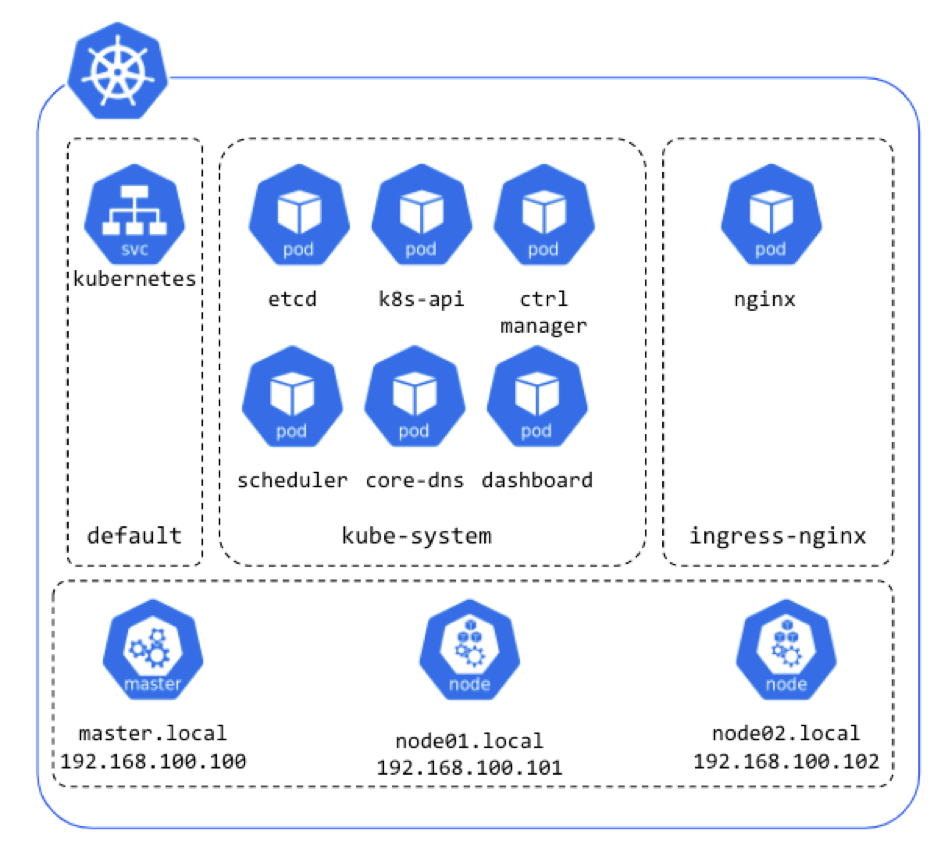
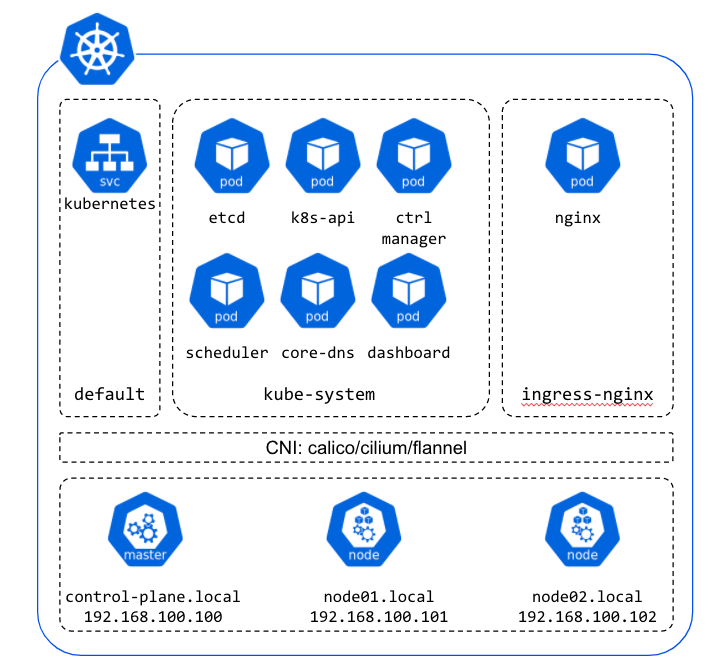
rename master to control-plane

diff --git a/docs/prerequisites.md b/docs/prerequisites.md
@@ -1,46 +1,60 @@
 # Prerequisites
 
-You need a physical machine with a at least i5 CPU and 8GB RAM. Lower resources might work but it is not guaranteed.
-The Operating system could be Windows/MacOS/Linux.
+You need a physical machine with a at least i5 CPU and 8GB RAM. Lower resources
+might work but it is not guaranteed. The Operating system could be
+Windows/MacOS/Linux.
 
-a) Download and install (with default settings) the following software (64bit version):
+a) Download and install (with default settings) the following software (64bit
+version):
 
 MacOS:
 
 - [VirtualBox 6.1.6](https://download.virtualbox.org/virtualbox/6.1.6)
-- [Oracle VM VirtualBox Extension Pack 6.1.6](https://download.virtualbox.org/virtualbox/6.1.6/Oracle_VM_VirtualBox_Extension_Pack-6.1.6.vbox-extpack)
+- [Oracle VM VirtualBox Extension Pack
+  6.1.6](https://download.virtualbox.org/virtualbox/6.1.6/Oracle_VM_VirtualBox_Extension_Pack-6.1.6.vbox-extpack)
 - [vagrant v2.2.7](https://releases.hashicorp.com/vagrant/2.2.7/)
 - [git](https://git-scm.com/book/en/v2/Getting-Started-Installing-Git)
-- [VSCode](https://code.visualstudio.com/download), vim or any text editor you like. 
+- [VSCode](https://code.visualstudio.com/download), vim or any text editor you
+  like.
 
 Windows:
 
 - [VirtualBox 6.1.6](https://download.virtualbox.org/virtualbox/6.1.6)
-- [Oracle VM VirtualBox Extension Pack 6.1.6](https://download.virtualbox.org/virtualbox/6.1.6/Oracle_VM_VirtualBox_Extension_Pack-6.1.6.vbox-extpack)
+- [Oracle VM VirtualBox Extension Pack
+  6.1.6](https://download.virtualbox.org/virtualbox/6.1.6/Oracle_VM_VirtualBox_Extension_Pack-6.1.6.vbox-extpack)
 - [vagrant v2.2.7](https://releases.hashicorp.com/vagrant/2.2.7/)
-- [git bash v2.23.0](https://github.com/git-for-windows/git/releases/download/v2.23.0.windows.1/Git-2.23.0-64-bit.exe)
-- [VSCode](https://code.visualstudio.com/download), [notepad++](https://notepad-plus-plus.org/download) or any text editor you like.
+- [git bash
+  v2.23.0](https://github.com/git-for-windows/git/releases/download/v2.23.0.windows.1/Git-2.23.0-64-bit.exe)
+- [VSCode](https://code.visualstudio.com/download),
+  [notepad++](https://notepad-plus-plus.org/download) or any text editor you
+  like.
 
-Windows only: In case that HyperV is active, you have to deactivate it in order to use this setup. More info [here](https://support.microsoft.com/en-us/help/3204980/virtualization-applications-do-not-work-together-with-hyper-v-device-g)
+Windows only: In case that HyperV is active, you have to deactivate it in order
+to use this setup. More info
+[here](https://support.microsoft.com/en-us/help/3204980/virtualization-applications-do-not-work-together-with-hyper-v-device-g)
 
 Linux:
 
 - [VirtualBox 6.1.6](https://download.virtualbox.org/virtualbox/6.1.6)
-- [Oracle VM VirtualBox Extension Pack 6.1.6](https://download.virtualbox.org/virtualbox/6.1.6/Oracle_VM_VirtualBox_Extension_Pack-6.1.6.vbox-extpack)
+- [Oracle VM VirtualBox Extension Pack
+  6.1.6](https://download.virtualbox.org/virtualbox/6.1.6/Oracle_VM_VirtualBox_Extension_Pack-6.1.6.vbox-extpack)
 - [vagrant v2.2.7](https://releases.hashicorp.com/vagrant/2.2.7/)
 - [git](https://git-scm.com/book/en/v2/Getting-Started-Installing-Git)
-- [VSCode](https://code.visualstudio.com/download), vim or any text editor you like.
+- [VSCode](https://code.visualstudio.com/download), vim or any text editor you
+  like.
 
-b) Create a folder with the name `labs` where you have ~30GB free space on disk. Change the current directory to `labs` folder.
+b) Create a folder with the name `labs` where you have ~30GB free space on disk.
+Change the current directory to `labs` folder.
 
 - For Mac/Linux: `cd $HOME/Desktop/labs`
-- For Windows run `git-bash` and go to `labs` folder. Ex. `cd /c/Users/<user name>/Desktop/labs`
+- For Windows run `git-bash` and go to `labs` folder. Ex. `cd /c/Users/<user
+  name>/Desktop/labs`
 
-c) On your phisical machine add the following entries in the hosts file:
+c) On your physical machine add the following entries in the hosts file:
 
 ```bash
-192.168.100.100 master.local cluster.local nfsstorage.local k8s.local
-192.168.100.100 myapp.local phippy.local prometheus.local
+192.168.234.100 control-plane.local cluster.local nfsstorage.local k8s.local
+192.168.234.100 myapp.local phippy.local prometheus.local
 ```
 
 - For Linux/Mac: modify the `/etc/hosts` file from command line:
@@ -49,27 +63,28 @@ c) On your phisical machine add the following entries in the hosts file:
 sudo vim /etc/hosts
 
 # copy and paste these lines here:
-192.168.100.100 master.local cluster.local nfsstorage.local k8s.local
-192.168.100.100 myapp.local phippy.local prometheus.local
+192.168.234.100 control-plane.local cluster.local nfsstorage.local k8s.local
+192.168.234.100 myapp.local phippy.local prometheus.local
 ```
 
-- For Windows, go to kubeadm-vagrant/src/windows/ and run as Administrator (Run As Administrator) the `configure_fqdns.bat` script.
+- For Windows, go to kubeadm-vagrant/src/windows/ and run as Administrator (Run
+  As Administrator) the `configure_fqdn.bat` script.
 
 To verify this, go to command line and do:
 
 ```bash
-ping master.local
-PING master.local (192.168.100.100): 56 data bytes
+ping control-plane.local
+PING control-plane.local (192.168.234.100): 56 data bytes
 Request timeout for icmp_seq 0
 ```
 
-If you see `master.local (192.168.100.100)`, then this setup is Ok.
+If you see `control-plane.local (192.168.234.100)`, then this setup is Ok.
 
 d) Deactivate `autocrlf` for git.
 
 - `git config --global core.autocrlf false`
 
-e) Clone the following git repos in `labs` folder:
+e) Clone the following git repositories in `labs` folder:
 
 ```bash
 git clone https://github.com/hlesey/kubeadm-vagrant.git
@@ -78,4 +93,6 @@ git clone https://github.com/hlesey/k8s-labs.git
 git clone https://github.com/hlesey/phippy.git
 ```
 
-f) Download vagrant templates necessary to initialize the K8s cluster. Execute the script from `kubeadm-vagrant/src/download_boxes.sh`. This might take a while.
+f) Download vagrant templates necessary to initialize the K8s cluster. Execute
+the script from `kubeadm-vagrant/src/download_boxes.sh`. This might take a
+while.

diff --git a/docs/cluster_setup.md b/docs/cluster_setup.md
@@ -3,20 +3,29 @@
 
 ## Bring the cluster up
 
-a) For Mac/Linux - open the terminal and go to `labs/kubeadm-vagrant`.
-   For Windows - open Git-bash and go to the `labs/kubeadm-vagrant` folder (Ex. `cd /c/Users/<user name>/Desktop/labs/kubeadm-vagrant`).
+a) For Mac/Linux - open the terminal and go to `labs/kubeadm-vagrant`. For
+   Windows - open Git-bash and go to the `labs/kubeadm-vagrant` folder (Ex. `cd
+   /c/Users/<user name>/Desktop/labs/kubeadm-vagrant`).
 
 b) Power on the VMs:
 
-- master node: `vagrant up master`. Afer the VM finish the initialization, the output sould end with the message: `“Enjoi.”`.
+- control-plane node: `vagrant up control-plane`. After the VM finish the
+  initialization, the output should end with the message: `“Enjoy”`.
 - worker nodes: `vagrant up node01` and `vagrant up node02`
 
-c) In order to test the cluster, from your local machine open the browser and go to: [https://k8s.local:30443](https://k8s.local:30443). You should see the K8s Dashboard:
+c) In order to test the cluster, from your local machine open the browser and go
+to: [https://k8s.local:30443](https://k8s.local:30443). You should see the K8s
+Dashboard:
 
-![K8s Dashboard login](./images/k8s_dashboard_login.png)
+<img alt="K8s Dashboard login" src="../docs/images/k8s_dashboard_login.png" width="600px" />
 
-d) To authenticate to this dashboard, use the token from this file: `kubeadm-vagrant/src/output/cluster_admin_token.txt`.
+Note: If you are using Google Chrome, you might hit `NET::ERR_CERT_INVALID`.
+Because we know this is our app, we should trust it. To bypass Google Chrome
+error, type `thisisunsafe` and hit enter.
 
-![K8s Dashboard](./images/k8s_dashboard.png)
+d) To authenticate to this dashboard, use the token from this file:
+`kubeadm-vagrant/src/output/cluster_admin_token.txt`.
 
-Enjoi;
+<img alt="K8s Dashboard" src="../docs/images/k8s_dashboard.png" width="800px" />
+
+Enjoy;

diff --git a/src/template/Readme.md b/src/template/Readme.md
@@ -1,5 +1,8 @@
-In order to build a new template you need a vagrant cloud token that can be aquired from `https://app.vagrantup.com/settings/security`
-Make sure you have `packer` and `vagrant` installed (for macos `brew install packer vagrant`)
+# Generate template box
+
+In order to build a new template you need a vagrant cloud token that can be
+acquired from `https://app.vagrantup.com/settings/security` Make sure you have
+`packer` and `vagrant` installed (for MacOS `brew install packer vagrant`)
 
 To build and upload a new `hlesey/k8s-base` vagrant box run
 
@@ -7,6 +10,8 @@ To build and upload a new `hlesey/k8s-base` vagrant box run
 VAGRANT_CLOUD_TOKEN=<token> VERSION=<box_version> make box
 ```
 
-Be aware that if the version already exists in vagrant cloud you will get an error.
-This should be solved after https://github.com/hashicorp/packer/issues/9492 will be implemented.
-One way to mitigate it is to manually remove the provider for this version from vagrantcloud UI and retry the above make command.
+Be aware that if the version already exists in vagrant cloud you will get an
+error. This should be solved after
+[https://github.com/hashicorp/packer/issues/9492](https://github.com/hashicorp/packer/issues/9492)
+will be implemented. One way to mitigate it is to manually remove the provider
+for this version from Vagrant Cloud UI and retry the above make command.

diff --git a/README.md b/README.md
@@ -1,13 +1,16 @@
-# Kuberntes cluster setup with Kubeadm, Vagrant, VirtualBox
+# Kubernetes cluster setup with Kubeadm, Vagrant, VirtualBox
 
-This repository provides a bunch of scripts necessary to run a minimum local K8s cluster for testing and learning purpose. Later it can be extended for production usage.
+This repository provides helps you to run a minimum best-practice Kubernetes Cluster for educational and testing purpose that can run on MacOS, Linux or Windows operating systems. This project can be extended for production usage.
 
-VirtualBox, Vagrant and Kubeadm are used for Virtualization, VMs deployment and K8s Cluster bootstrap.
+VirtualBox, Vagrant and Kubeadm are used for Virtualization, VMs deployment and K8s Cluster bootstrap:
+
+<img alt="Vagrant flow" src="./docs/images/vagrant_flow.png" width="800px" />
 
 In order to run this cluster on your local machine, please go thought the following docs:
 
 - [prerequisites](./docs/prerequisites.md)
 - [cluster setup](./docs/cluster_setup.md)
 
-Here is the cluster diagram:
-![Cluster diagram](./docs/images/cluster_diagram.png)
+The Kubernetes Cluster is described in this diagram:
+
+<img alt="Cluster diagram" src="./docs/images/cluster_diagram.png" width="800px" />

diff --git a/docs/manage_cluster.md b/docs/manage_cluster.md
@@ -7,10 +7,10 @@ export KUBECONFIG=$(pwd)/src/output/kubeconfig.yaml
 kubectl cluster-info
 ```
 
-or login into the master node:
+or login into the control-plane node:
 
 ```bash
-vagrant ssh master
+vagrant ssh control-plane
 kubectl cluster-info
 kns <my-fancy-namespace> # change the default namespace in kubeconfig
 kubectl get <my-fancy-object>
@@ -19,6 +19,6 @@ kubectl get <my-fancy-object>
 ## K8s Dashboard
 
 ```bash
-Browse to https://192.168.100.100:30443
+Browse to https://192.168.234.100:30443
 Use token generated in src/output/cluster_admin_token.txt
 ```

diff --git a/docs/one_node_cluster.md b/docs/one_node_cluster.md
@@ -1,9 +1,10 @@
 # Running one node cluster
 
-If you want to run only the master node and be able to schedule Pods on it, remove the taint from the master:
+If you want to run only the control-plane node and be able to schedule Pods on
+it, remove the taint:
 
 ```bash
-vagrant up master
-vagrant ssh master
-kubectl taint nodes master node-role.kubernetes.io/master-
+vagrant up control-plane
+vagrant ssh control-plane
+kubectl taint nodes control-plane node-role.kubernetes.io/master-
 ```
